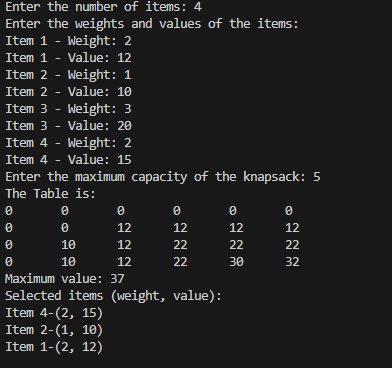
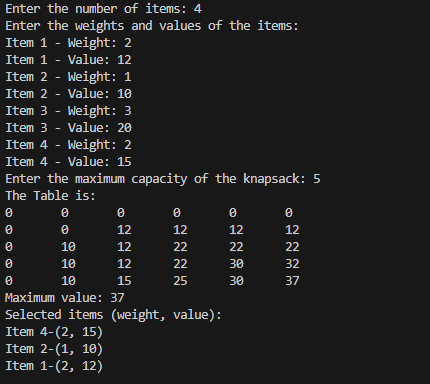
commit

diff --git a/Lab6/Knapsack.c b/Lab6/Knapsack.c
@@ -19,7 +19,7 @@ void knapsack(int n, int W, int weights[], int values[]) {
         }
     }
     printf("The Table is:\n");
-    for (int i = 0; i < n; i++)
+    for (int i = 0; i < n+1; i++)
     {
         for (int w = 0; w <= W;w++){
             printf("%d\t", dp[i][w]);
